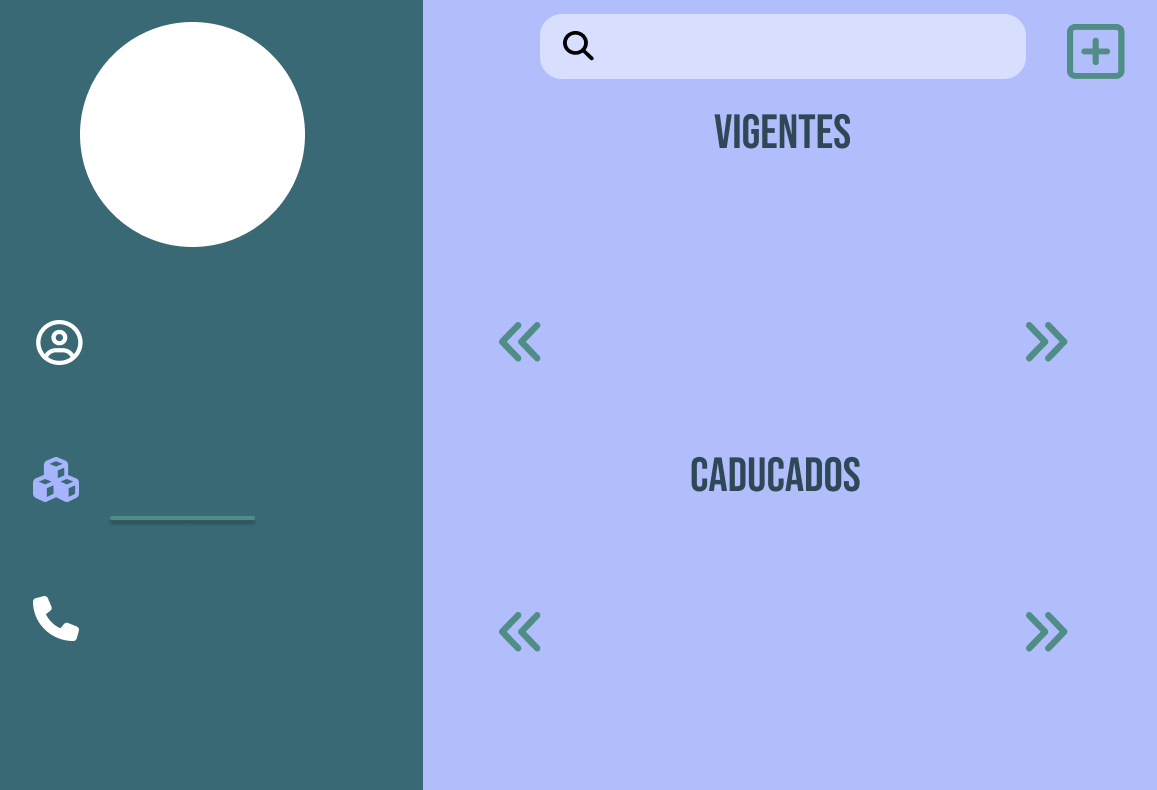
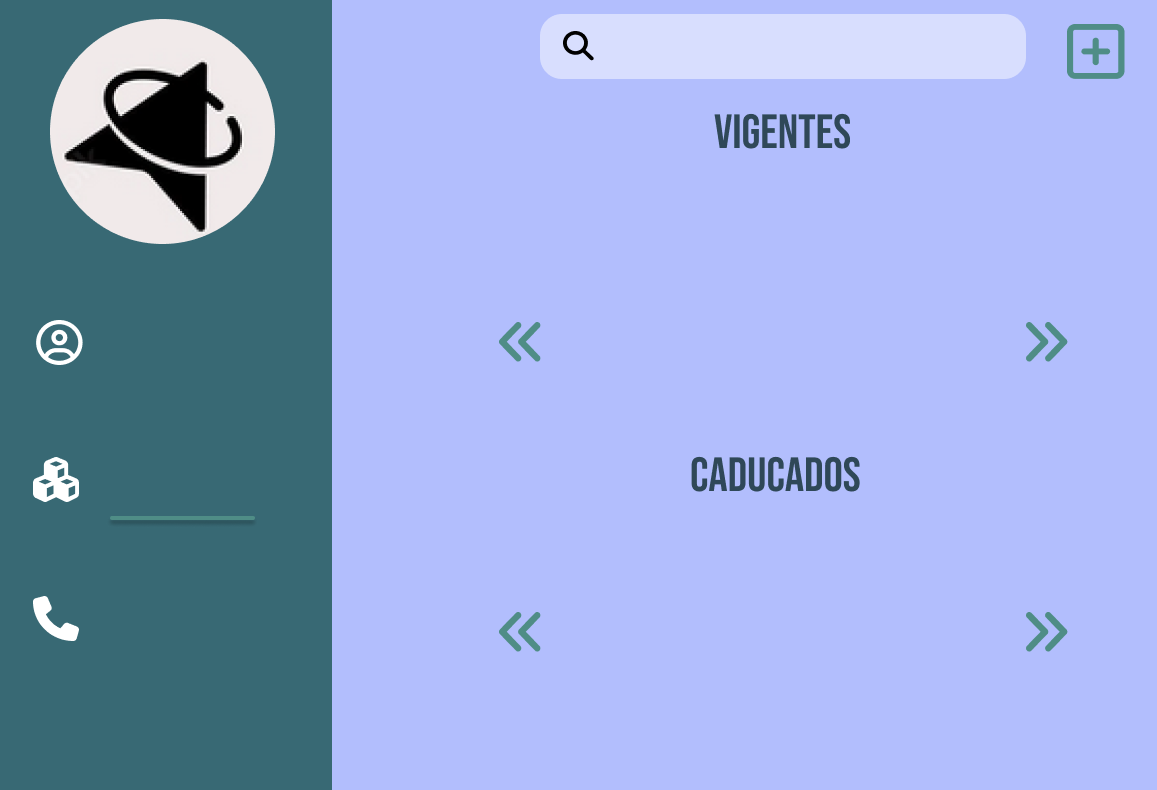
Se ha mejorado Panel de Contacto, arreglado el de Anuncios y creado el Usuario Administrador

Changed region(s): [[0.0311, 0.0, 0.3734, 1.0], [0.0311, 0.5772, 0.0933, 0.638]]

diff --git a/GUI_Demo/src/TheGreatPanel.java b/GUI_Demo/src/TheGreatPanel.java
@@ -17,9 +17,11 @@ public class TheGreatPanel {
 
     //SE CREAN LAS INSTANCIAS DE LOS PANELES
     LoginPanel loginPanel = new LoginPanel();
+    AdminUserPanel adminUserPanel = new AdminUserPanel();
     LimitedUserPanel limitedUserPanel = new LimitedUserPanel();
     AdvertsPanel adsPanel = new AdvertsPanel();
     ContactPanel contactPanel = new ContactPanel();
+
 
     //CREAR EL MANAGER DE PANELES/LAYOUT
     CardLayout cardLayout = new CardLayout();
@@ -34,6 +36,7 @@ public class TheGreatPanel {
 
        // EL GREATPANEL AÑADE LOS OTROS PANELES
        GreatPanel.add(loginPanel.loginPanel, "Login Panel");
+       GreatPanel.add(adminUserPanel.adminUserPanel, "Admin User Panel");
        GreatPanel.add(limitedUserPanel.userPanel,"User Panel");
        GreatPanel.add(adsPanel.adsPanel, "Ads Panel");
        GreatPanel.add(contactPanel.contactPanel, "Contact Panel");
@@ -55,7 +58,7 @@ public class TheGreatPanel {
                     // delay 5 seconds
                     Thread.sleep(500);
                     //call another method in the same class which will close this Jframe
-                    cardLayout.show(GreatPanel, "User Panel");
+                    cardLayout.show(GreatPanel, "Admin User Panel");
 
                 } catch (InterruptedException s) {
                     System.err.format("IOException: %s%n", e);
@@ -90,7 +93,7 @@ public class TheGreatPanel {
         adsPanel.userButton.addActionListener(new ActionListener() {
             public void actionPerformed(ActionEvent e) {
                 //call another method in the same class which will close this Jframe
-                cardLayout.show(GreatPanel, "User Panel");
+                cardLayout.show(GreatPanel, "Admin User Panel");
 
             }
         });
@@ -108,7 +111,7 @@ public class TheGreatPanel {
         contactPanel.userButton.addActionListener(new ActionListener() {
             public void actionPerformed(ActionEvent e) {
                 //call another method in the same class which will close this Jframe
-                cardLayout.show(GreatPanel, "User Panel");
+                cardLayout.show(GreatPanel, "Admin User Panel");
 
             }
         });
@@ -122,6 +125,25 @@ public class TheGreatPanel {
             }
         });
 
+
+
+        //LISTENER ADMIN USER PANEL adsButton
+        adminUserPanel.adsButton.addActionListener(new ActionListener() {
+            public void actionPerformed(ActionEvent e) {
+                //call another method in the same class which will close this Jframe
+                cardLayout.show(GreatPanel, "Ads Panel");
+
+            }
+        });
+
+        //LISTENER ADMIN USER PANEL contactButton
+        adminUserPanel.contactButton.addActionListener(new ActionListener() {
+            public void actionPerformed(ActionEvent e) {
+                //call another method in the same class which will close this Jframe
+                cardLayout.show(GreatPanel, "Contact Panel");
+
+            }
+        });
 
 
 

diff --git a/GUI_Demo/src/AdminUserPanel.java b/GUI_Demo/src/AdminUserPanel.java
@@ -1,0 +1,86 @@
+import javax.swing.*;
+import java.awt.*;
+import java.io.IOException;
+import java.util.Objects;
+
+public class AdminUserPanel {
+
+    //SE CREA JPANEL
+
+    JPanel adminUserPanel = new JPanel();
+
+    //SE CREA JTABLE
+
+    JTable adminTable  = new JTable();
+
+    //SE CREAN JTEXTFIELDS
+
+    JTextField adminName = new JTextField(10);
+    JTextField adminID = new JTextField(10);
+    JTextField adminNumber = new JTextField(10);
+    JTextField adminEmail = new JTextField(10);
+    JTextField adminTotalAds = new JTextField(10);
+
+
+    //SE CREAN LOS BOTONES
+
+    JButton userInfo = new JButton();
+    JButton buissnesListSection = new JButton();
+    JButton adminUserButton = new JButton();
+    JButton adsButton = new JButton();
+    JButton contactButton = new JButton();
+
+    //Instancia Utlities
+
+    Utilities utilities = new Utilities();
+
+    public AdminUserPanel() throws IOException, FontFormatException {
+
+        //JLABEL PARA ESTABLECER IMAGEN DE FONDO
+        JLabel adminUserPanelBackground = new JLabel(
+                new ImageIcon(Objects.requireNonNull(getClass().getResource("images/Fondo_Usuario_Admin.png"))));
+
+        //JLABEL REDUCIDO PARA CONTENER DISTINTOS TIPOS DE INFORMACIÓN, TAMBIÉN LO CARACTERIZAMOS
+        JLabel infoContainer = new JLabel();
+
+        infoContainer.setBounds(354, 225, 772, 465);
+        infoContainer.setBackground(Color.decode("#D2D9FE"));
+        infoContainer.setOpaque(true);
+        infoContainer.setVisible(true);
+
+
+
+        //LLAMAMOS LOS BOTONES PERTINENTES
+
+        adminUserButton = utilities.crearBotonesNavBarActive(128, 322, 129, 47, "Usuario");
+
+        adsButton = utilities.crearBotonesNavBar(112, 458, 152, 47, "Anuncios");
+
+        contactButton = utilities.crearBotonesNavBar(122, 593, 160, 47, "Contacto");
+
+        userInfo.setBounds(358, 169, 372,57);
+        userInfo.setContentAreaFilled(false);
+        userInfo.setBorderPainted(true);
+
+
+
+        buissnesListSection.setBounds(744, 169, 372,57);
+        buissnesListSection.setOpaque(false);
+        buissnesListSection.setBorderPainted(true);
+
+
+        adminUserPanelBackground.add(adminUserButton);
+        adminUserPanelBackground.add(adsButton);
+        adminUserPanelBackground.add(contactButton);
+        adminUserPanelBackground.add(userInfo);
+        adminUserPanelBackground.add(buissnesListSection);
+        adminUserPanelBackground.add(infoContainer);
+        adminUserPanel.add(adminUserPanelBackground);
+
+
+
+
+    }
+
+
+}

diff --git a/GUI_Demo/src/ContactPanel.java b/GUI_Demo/src/ContactPanel.java
@@ -9,7 +9,7 @@ public class ContactPanel {
 
     JPanel contactPanel = new JPanel();
 
-    //SE CREA BOTÓN DE REGISTRO
+    //SE CREAN JTEXTFIELDS
     JTextField straightEmail = new JTextField(20);
     JTextArea straightMessage = new JTextArea(10,10);
 
@@ -33,7 +33,7 @@ public ContactPanel () throws IOException, FontFormatException {
 
 
     //SETEAMOS JTEXTFIELD
-    straightEmail.setBounds(464, 270, 660, 55);
+    straightEmail.setBounds(414, 250, 660, 55);
     straightEmail.setFont(Font.createFont(Font.TRUETYPE_FONT, Objects.requireNonNull(getClass().getClassLoader().getResourceAsStream("fonts/Quicksand-Regular.ttf"))));
     straightEmail.setFont(straightEmail.getFont().deriveFont(Font.PLAIN, 25));
     straightEmail.setOpaque(false);
@@ -46,11 +46,10 @@ public ContactPanel () throws IOException, FontFormatException {
 
 
     // SETEAMOS EL JTEXTAREA
-    straightMessage.setBounds(460, 389, 681, 276);
+    straightMessage.setBounds(414, 369, 681, 276);
     straightMessage.setFont(Font.createFont(Font.TRUETYPE_FONT, Objects.requireNonNull(getClass().getClassLoader().getResourceAsStream("fonts/Quicksand-Regular.ttf"))));
     straightMessage.setFont(straightEmail.getFont().deriveFont(Font.PLAIN, 25));
     straightMessage.setOpaque(false);
-    straightMessage.setBorder(null);
     straightMessage.setWrapStyleWord(true);
     straightMessage.setLineWrap(true);
 
@@ -61,7 +60,11 @@ public ContactPanel () throws IOException, FontFormatException {
 
     //CREAR BOTONES EN LA FUNCIÓN
 
-    submitButton = crearBotonSubmit(460,676,236,48, "ENVIAR");
+    submitButton.setBounds(460, 659, 236, 48);
+    submitButton.setContentAreaFilled(false);
+    submitButton.setBorder(null);
+
+
 
     userButton = utilities.crearBotonesNavBar(128, 322, 129,47, "USUARIO");
 

diff --git a/GUI_Demo/src/Utilities.java b/GUI_Demo/src/Utilities.java
@@ -24,17 +24,6 @@ public class Utilities {
         button.setContentAreaFilled(false); // No ponemos el contenido del area
         button.setBorderPainted(false); // Seteamos el borde en false
 
-        button.addMouseListener(new MouseAdapter() { // Cambia el color de las letras en el
-            // momento que el raton pasa encima
-            public void mouseEntered(MouseEvent evt) {
-                button.setForeground(Color.decode("#E18700"));
-            }
-
-            public void mouseExited(MouseEvent evt) { // Vuelve al color original una vez el raton se
-                // quita del texto
-                button.setForeground(Color.decode("#A7B5FD"));
-            }
-        });
 
 
         return button;

diff --git a/GUI_Demo/src/AdvertsPanel.java b/GUI_Demo/src/AdvertsPanel.java
@@ -29,7 +29,7 @@ public class AdvertsPanel {
 
         //JLABEL PARA ESTABLECER IMAGEN DE FONDO
         JLabel fondoPanelAds = new JLabel(
-                new ImageIcon(Objects.requireNonNull(getClass().getResource("images/Fondo_Anuncios.png"))));
+                new ImageIcon(Objects.requireNonNull(getClass().getResource("images/Fondo_Anuncios-admin.png"))));
 
         fondoPanelAds.setLayout(null);// Ningun Layout en Especial
 

diff --git a/GUI_Demo/src/ConectividadBBDD.java b/GUI_Demo/src/ConectividadBBDD.java
@@ -1,0 +1,2 @@
+public class ConectividadBBDD {
+}
